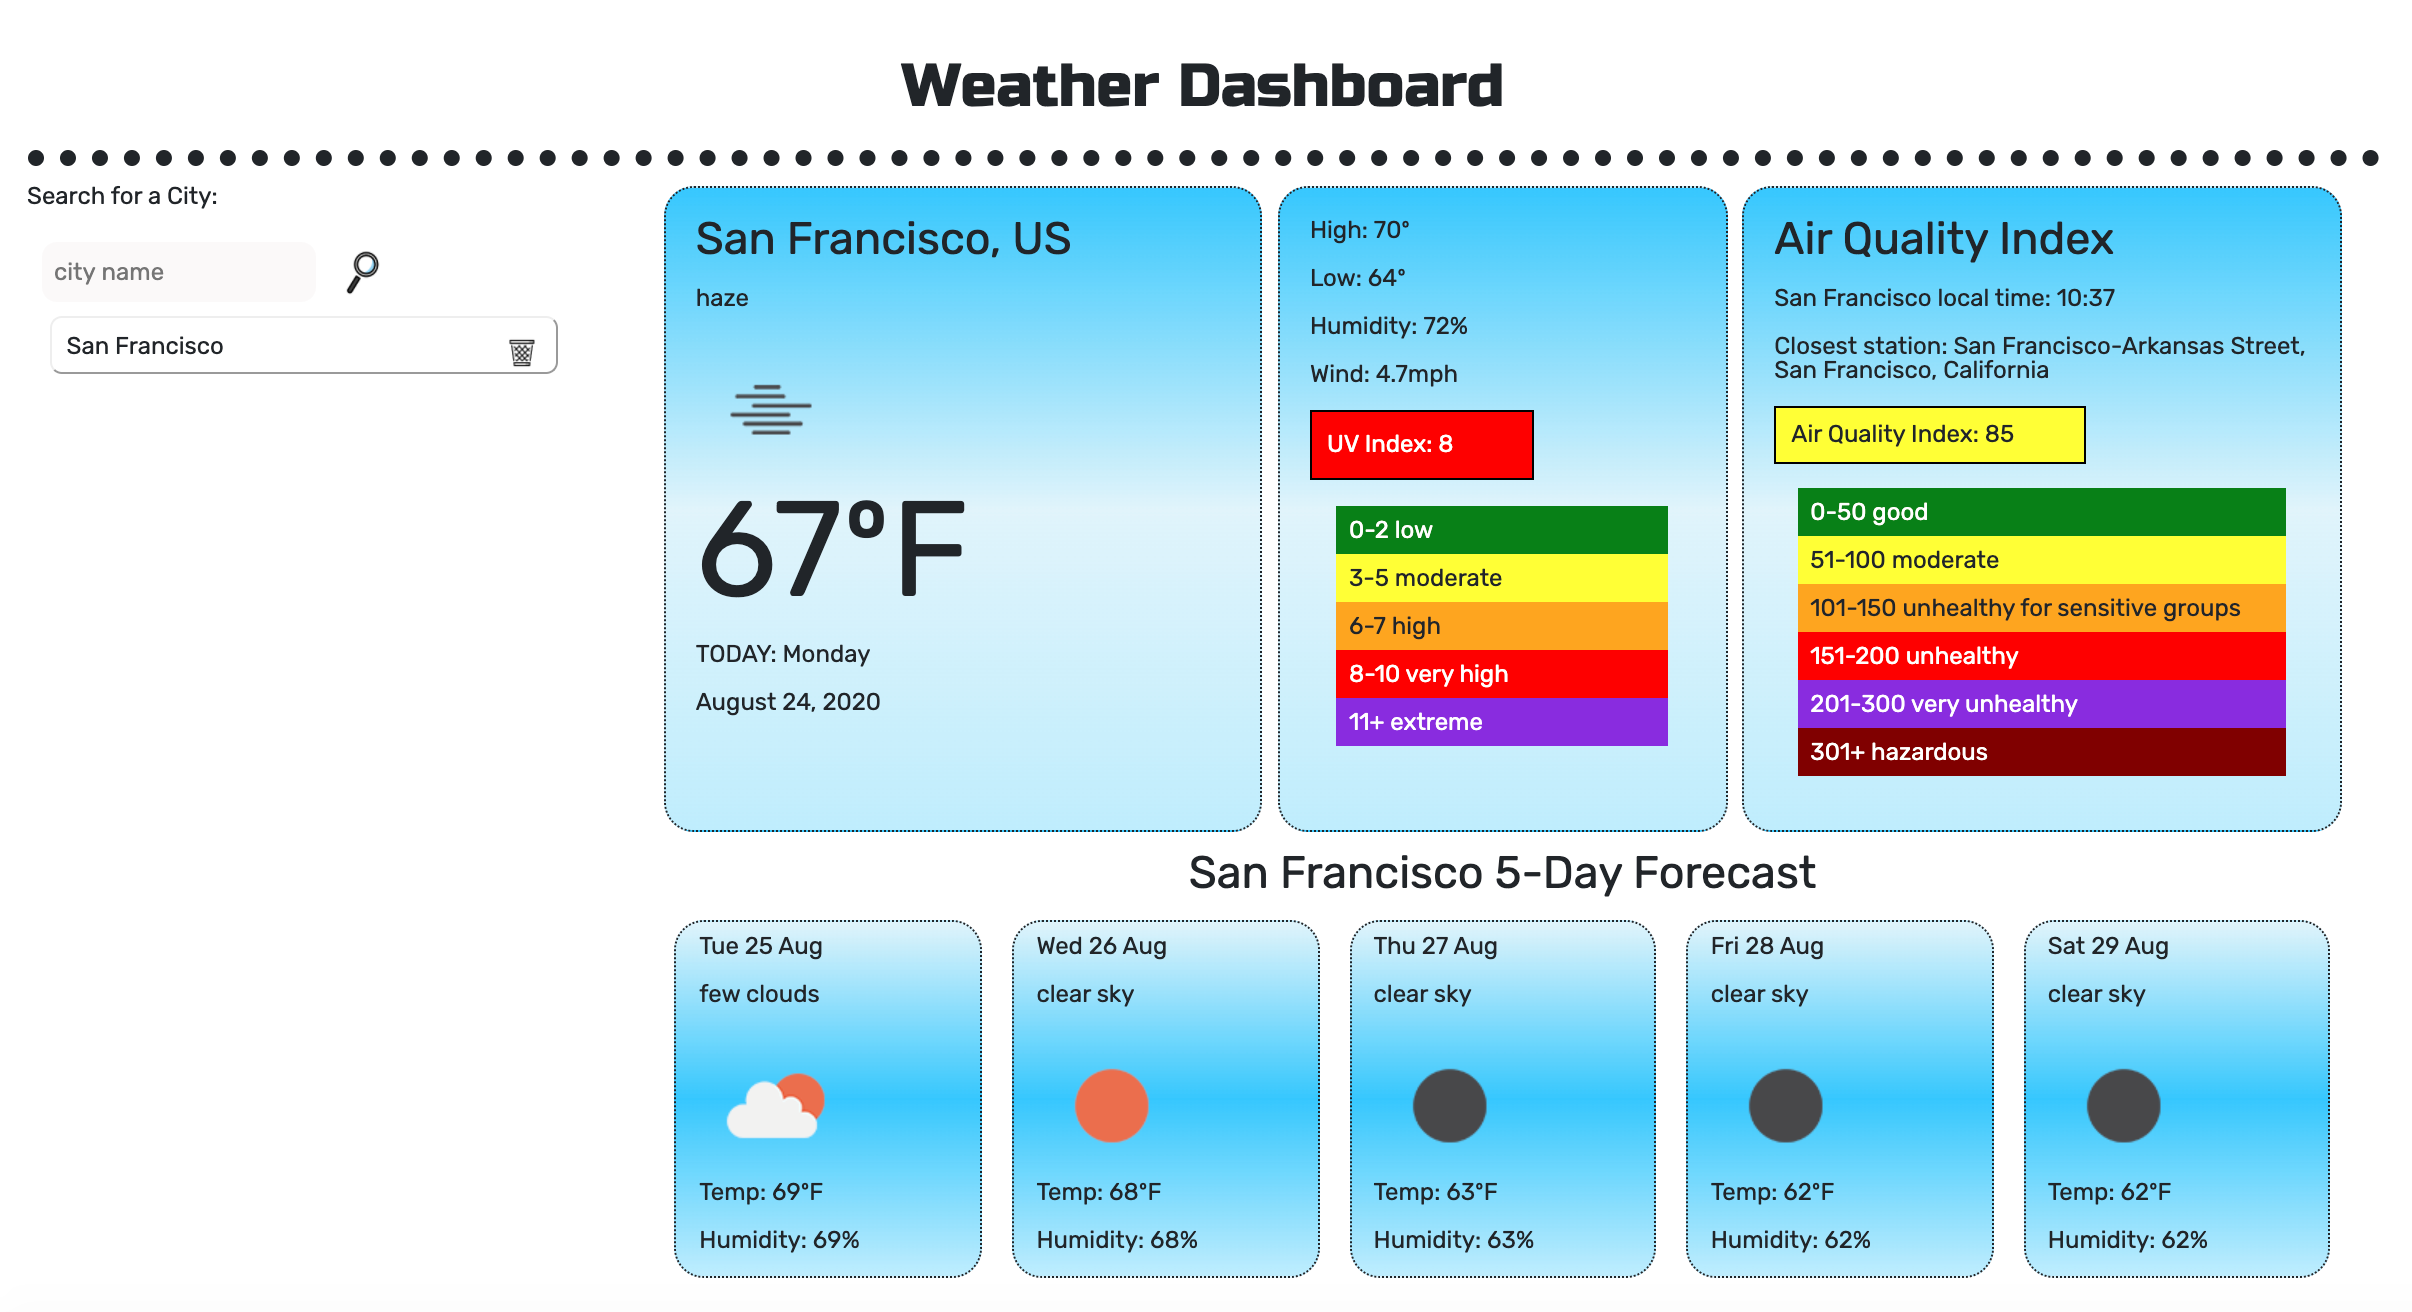
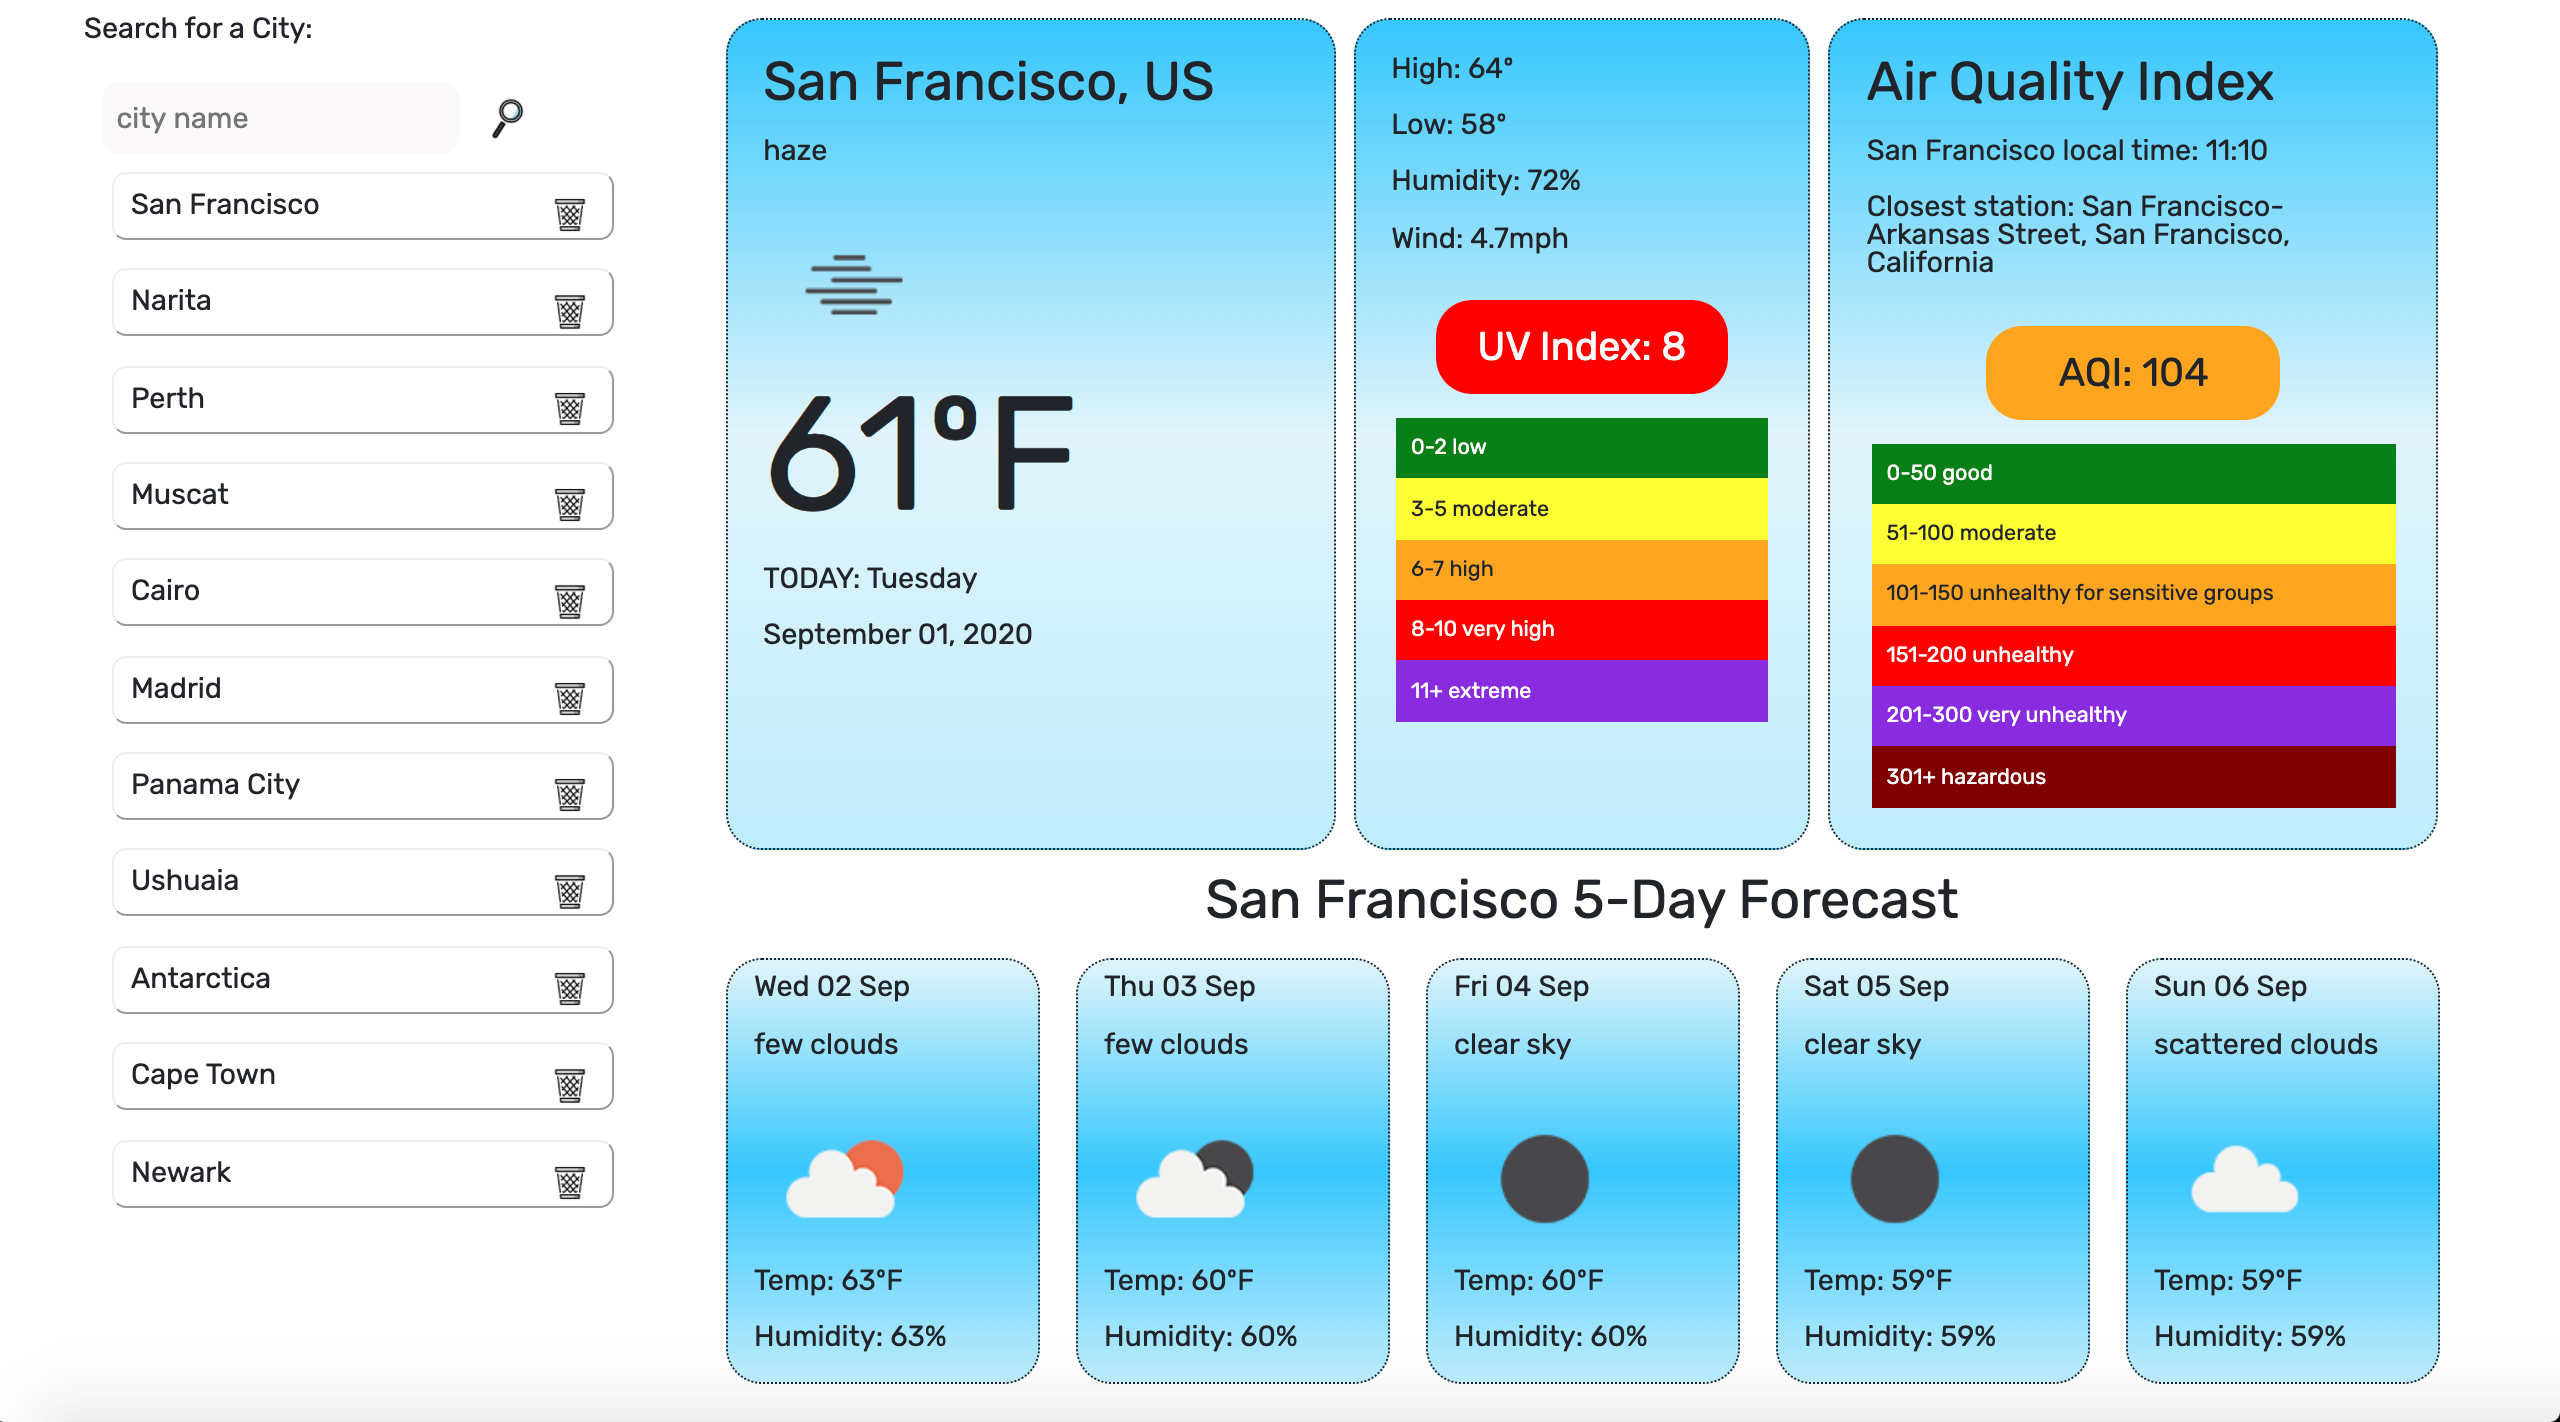
changed styles, changed city name from user input to API response city

diff --git a/Assets/scripts.js b/Assets/scripts.js
@@ -23,7 +23,7 @@ $(document).ready(function () {
       cityArray = getCities;
       todaysWeather();
       forecast();
-      for (i = 0; i < cityArray.length; i++) {
+      for (let i = 0; i < cityArray.length; i++) {
         let savedCity = $("<p>").text(cityArray[i]).attr("id", "city" + i);
         let trash = $("<img/>").attr("src", "Assets/trash.png").css("width", "26px").addClass("trash");
         trash.data('index', i);
@@ -158,7 +158,8 @@ $(document).ready(function () {
       $todayWeather.append(city, description, icon, currentTemp, today, date);
       $todayStats.append(tempHigh, tempLow, humidity, wind);
 
-      // these will be needed for UV index
+      // these will be needed for UV index and AQI
+      cityName = response.name;
       latitude = response.coord.lat;
       longitude = response.coord.lon;
       uvIndex();
@@ -180,13 +181,15 @@ $(document).ready(function () {
       url: URL,
       method: "GET",
     }).then(function (response) {
+      let row = $("<div>").addClass("row d-flex justify-content-center");
       let UV = $("<div>")
-        .addClass("col-sm-7 uvi")
+        .addClass("col-5 col-sm-8 uvi")
         .text("UV Index: " + Math.round(response.value));
-      $todayStats.append(UV);
+        row.append(UV)
+      $todayStats.append(row);
       let uvIndex = Math.round(response.value);
 
-      let uvRow = $("<p>").addClass("row uviKey");
+      let uvRow = $("<div>").addClass("row uviKey");
       let low = $("<div>")
         .addClass("col-12 p-2")
         .text("0-2 low")
@@ -248,13 +251,14 @@ $(document).ready(function () {
       let aqiHeader = $("<p>").addClass("aqiHeader").text("Air Quality Index");
       $todayAQI.append(aqiHeader);
 
-      let aqiLocal = $("<p>")
-        .addClass("col-sm-7 aqiLocal")
-        .text("Air Quality Index: " + AQI);
+      let row = $("<div>").addClass("row d-flex justify-content-center");
+      let aqiLocal = $("<div>")
+        .addClass("col-4 col-sm-6 aqiLocal")
+        .text("AQI: " + AQI);
 
       if (AQI == undefined) {
         let aqiUnknown = $("<p>").text(
-          "Air Quality Index: unknown for this location"
+          "AQI: unknown for this location"
         );
         $todayAQI.append(aqiUnknown);
       } else {
@@ -262,15 +266,16 @@ $(document).ready(function () {
           .utcOffset(response.data.time.tz)
           .format("HH:mm");
         let localTimeDisplay = $("<p>").text(
-          citySearch + " local time: " + localTime
+          cityName + " local time: " + localTime
         );
 
         let aqiStation = $("<p>").text(
           "Closest station: " + response.data.city.name
         );
-        $todayAQI.append(localTimeDisplay, aqiStation, aqiLocal);
+        row.append(aqiLocal)
+        $todayAQI.append(localTimeDisplay, aqiStation, row);
 
-        let $aqiRow = $("<p>").addClass("row m-3 aqiKey");
+        let $aqiRow = $("<div>").addClass("row aqiKey");
 
         let good = $("<div>")
           .addClass("col-12 p-2")
@@ -364,7 +369,7 @@ $(document).ready(function () {
 
       // start at index 1 because index 0 is today
       for (var i = 1; i < 6; i++) {
-        let nextDay = $("<div>").addClass("col-sm-5 col-lg-2 pt-2 nextDay");
+        let nextDay = $("<div>").addClass("col-5 col-lg-2 pt-2 nextDay");
 
         let date = $("<p>").text(moment().add(i, "days").format("ddd DD MMM"));
 

diff --git a/Assets/styles.css b/Assets/styles.css
@@ -13,6 +13,7 @@ h1 {
 
 .searchButton {
   cursor: pointer;
+  height: 30px;
 }
 
 .searchButton:hover {
@@ -75,12 +76,15 @@ p {
 
 .uvi, .aqiLocal {
   padding: 10px;
-  border: 1px black solid;
+  border-radius: 20px;
+  text-align: center;
+  font-size: 22px;
+  margin: 10px;
 }
 
-.uviKey {
-  padding: 10px;
-  margin: 8px;
+.uviKey, .aqiKey {
+  font-size: 12px;
+  margin: 3px;
 }
 
 .trash {

diff --git a/index.html b/index.html
@@ -33,7 +33,6 @@
             <!-- search bar -->
             <br/><input placeholder="city name" id="searchBar" /><img
               alt="magnifying glass emoji"
-              width="38px"
               class="searchButton"
               src="Assets/magnifier.png"
             />
